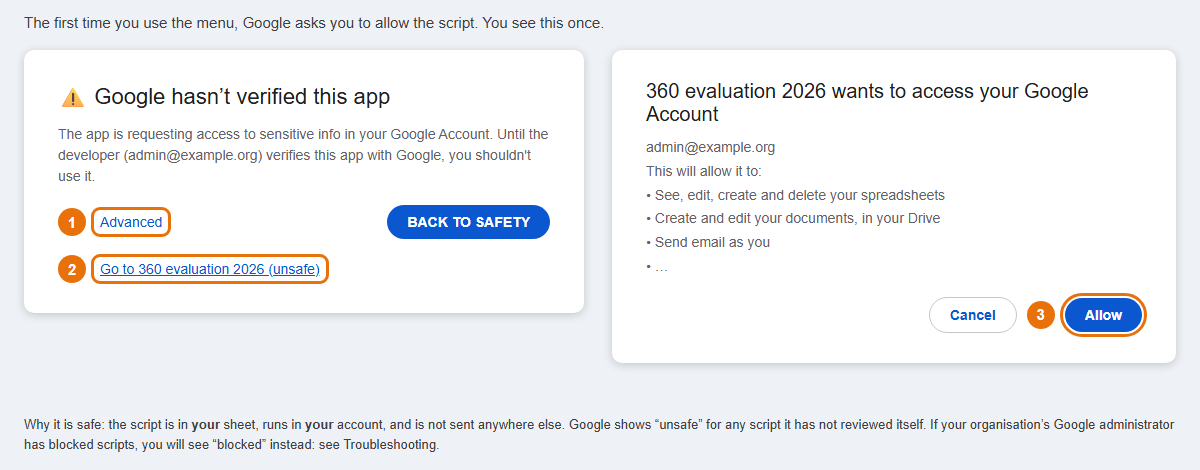
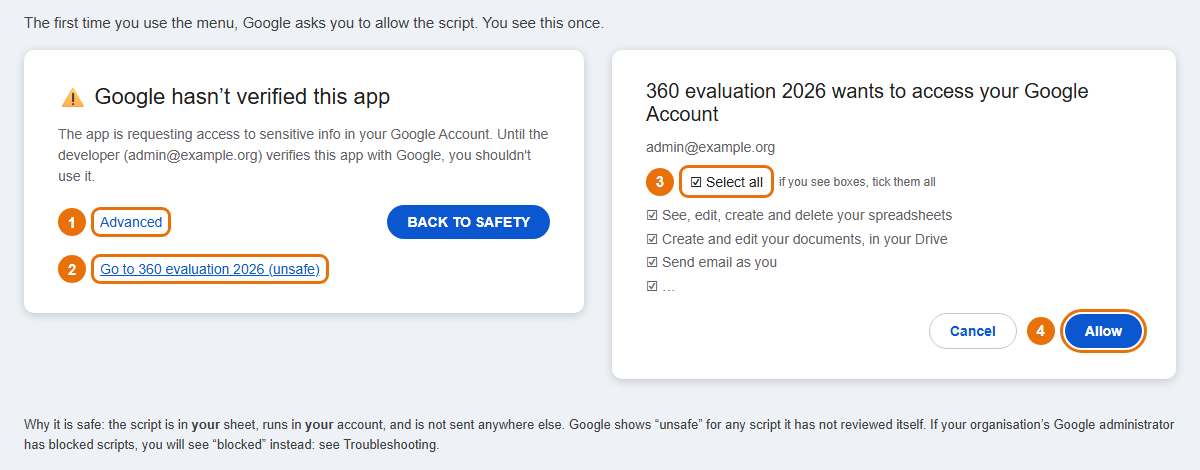
docs: first-time path and tidy-up after two fresh reviews
- Setup guide: agree who the admin is, which folder to use after unzipping,
  Git up front on Windows, "Select all" on Google's permission screen,
  tell the team first, and how to know the invitations went out.
- Publish picture and steps: the later "new version" step moved to the
  admin guide; step 4 shown.
- Automatic upload prints the new sheet's link.
- Security review kept as a dated record; no maintainer to-do list.
- Fixed statements that contradicted the code (review decisions, employee
  copy); consistent admin-check exceptions; picture scripts documented and
  sharing one Chrome finder.
- Arabic README: one note on AI-drafted wording; product document moved to
  the developer links.

New Arabic copy needs native review.

Changed region(s): [[0.5242, 0.3277, 0.8017, 0.566], [0.4933, 0.6255, 0.9867, 0.8043], [0.5242, 0.5957, 0.555, 0.6255]]

diff --git a/tools/guide-images.js b/tools/guide-images.js
@@ -88,8 +88,10 @@ ${card(`<div style="font-size:22px;margin-bottom:14px">⚠ Google hasn’t ve
 <span style="flex:1"></span><span class="btn pri">BACK TO SAFETY</span></div>
 <div style="margin-top:16px;display:flex;align-items:center;gap:10px"><span class="badge">2</span><span class="hl" style="color:#0b57d0;font-size:14px;text-decoration:underline;padding:2px 4px">Go to 360 evaluation 2026 (unsafe)</span></div>`, 'left:24px;top:50px;width:560px')}
 ${card(`<div style="font-size:20px;margin-bottom:10px">360 evaluation 2026 wants to access your Google Account</div>
-<div class="note" style="font-size:14px;line-height:1.7">admin@example.org<br>This will allow it to:<br>• See, edit, create and delete your spreadsheets<br>• Create and edit your documents, in your Drive<br>• Send email as you<br>• …</div>
-<div style="margin-top:18px;display:flex;align-items:center;gap:10px;justify-content:flex-end"><span class="btn sec">Cancel</span><span class="badge">3</span><span class="btn pri hl">Allow</span></div>`, 'left:612px;top:50px;width:564px')}
+<div class="note" style="font-size:14px;line-height:1.7">admin@example.org</div>
+<div style="display:flex;align-items:center;gap:10px;margin:8px 0"><span class="badge">3</span><span class="hl" style="font-size:14px;padding:2px 6px">☑ Select all</span><span class="note">if you see boxes, tick them all</span></div>
+<div class="note" style="font-size:14px;line-height:1.7">☑ See, edit, create and delete your spreadsheets<br>☑ Create and edit your documents, in your Drive<br>☑ Send email as you<br>☑ …</div>
+<div style="margin-top:14px;display:flex;align-items:center;gap:10px;justify-content:flex-end"><span class="btn sec">Cancel</span><span class="badge">4</span><span class="btn pri hl">Allow</span></div>`, 'left:612px;top:50px;width:564px')}
 <div style="position:absolute;left:24px;right:24px;bottom:16px;font-size:13px;color:#3c4043;line-height:1.5">
 Why it is safe: the script is in <b>your</b> sheet, runs in <b>your</b> account, and is not sent anywhere else. Google shows “unsafe” for any script it has not reviewed itself.
 If your organisation’s Google administrator has blocked scripts, you will see “blocked” instead: see Troubleshooting.</div>
@@ -108,15 +110,13 @@ ${card(`<div style="font-size:18px;margin-bottom:14px">New deployment</div>
 <div style="display:flex;align-items:center;gap:10px"><span class="badge">3</span><div class="hl" style="flex:1;border:1px solid #c4c7c5;padding:8px;font-size:14px">Anyone within Example Foundation</div></div>
 <div style="margin-top:18px;text-align:right"><span class="btn sec">Cancel</span> <span class="btn pri hl">Deploy</span></div>`, 'left:390px;top:24px;width:400px;height:300px')}
 ${card(`<div style="font-size:18px;margin-bottom:14px">New deployment</div>
+<div style="display:flex;align-items:center;gap:10px;font-size:13px;margin-bottom:10px"><span class="badge">4</span>If Google asks again: your account → Allow</div>
 <div style="font-size:14px;color:#188038;margin-bottom:12px">✓ Deployment successfully created.</div>
 <div style="font-size:13px;color:#5f6368">Web app — URL</div>
 <div style="display:flex;align-items:center;gap:10px;margin-top:4px"><div style="flex:1;border:1px solid #c4c7c5;padding:8px;font-size:12px;overflow:hidden;white-space:nowrap">https://script.google.com/macros/s/…/exec</div></div>
 <div style="display:flex;align-items:center;gap:10px;margin-top:10px"><span class="badge">5</span><span class="btn sec hl">Copy</span></div>
 <div class="note" style="margin-top:14px;line-height:1.5">Paste it in the box in the sheet’s window and press «Save the address».</div>`, 'left:816px;top:24px;width:360px')}
-${card(`<div style="font-size:16px;margin-bottom:10px"><span class="badge">6</span> Later, after any change to the code: <b>Deploy → Manage deployments</b></div>
-<div style="display:flex;align-items:center;gap:12px;font-size:14px">✏ <span class="hl" style="padding:0 4px">pencil</span> → Version: <div class="hl" style="border:1px solid #c4c7c5;padding:6px 10px">New version</div> → <span class="btn pri">Deploy</span>
-<span class="note" style="font-size:13px">Check that the number goes up. If it still shows the old number, the page did not change. The address stays the same.</span></div>`, 'left:24px;top:350px;right:24px')}
-</body></html>`, 1200, 510);
+</body></html>`, 1200, 350);
 shotDeploy();
 
 try { fs.rmSync(tmp, { recursive: true, force: true }); } catch (e) {}

diff --git a/tools/push.js b/tools/push.js
@@ -21,7 +21,7 @@ function clasp(args) {
   const r = process.platform === 'win32'
     ? spawnSync('npx ' + all.map(quote).join(' '), { cwd: build, stdio: 'inherit', shell: true })
     : spawnSync('npx', all, { cwd: build, stdio: 'inherit' });
-  if (r.status !== 0) { console.error('\nclasp stopped (exit ' + r.status + '). See docs/en/troubleshooting.md → "clasp".'); process.exit(r.status || 1); }
+  if (r.status !== 0) { console.error('\nclasp stopped (exit ' + r.status + '). See docs/en/troubleshooting.md → "Automatic upload with Claude Code".'); process.exit(r.status || 1); }
 }
 // The sheet's name: the organisation name, keeping only letters, numbers, spaces and simple punctuation
 const title = String(org.settings.ORG_NAME || 'Our organisation').replace(/[^\p{L}\p{N} .,'()_-]/gu, ' ').replace(/'/g, '').trim() + ' - 360 evaluation';
@@ -32,7 +32,9 @@ if (cmd === 'create') {
   ['Code.js', 'code.js'].forEach(f => { const p = path.join(build, f); if (fs.existsSync(p)) fs.unlinkSync(p); });
   fs.copyFileSync(path.join(ROOT, 'appsscript.json'), path.join(build, 'appsscript.json'));
   clasp(['push', '--force']);
-  console.log('\nDone. A new Google Sheet "' + title + '" is in your Drive with the script inside. Next: open it, reload, and choose «360 → Start setup».');
+  let link = '';
+  try { const id = JSON.parse(fs.readFileSync(path.join(build, '.clasp.json'), 'utf8')).parentId; if (id) link = 'https://docs.google.com/spreadsheets/d/' + (Array.isArray(id) ? id[0] : id) + '/edit'; } catch (e) {}
+  console.log('\nDone. A new Google Sheet "' + title + '" is in your Drive with the script inside.' + (link ? '\nOpen it: ' + link : '') + '\nNext: reload it, and choose «360 → Start setup».');
 } else if (cmd === 'update') {
   clasp(['push', '--force']);
   console.log('\nCode updated. If the personal page is already published, publish a new version: see docs/en/admin-guide.md → "After changing the code".');

diff --git a/tools/banner.js b/tools/banner.js
@@ -3,7 +3,7 @@
 'use strict';
 const fs = require('fs'), path = require('path'), os = require('os'), { execFileSync } = require('child_process'), { pathToFileURL } = require('url');
 const { ROOT } = require('./lib');
-const chrome = [process.env.CHROME, 'C:/Program Files/Google/Chrome/Application/chrome.exe', '/Applications/Google Chrome.app/Contents/MacOS/Google Chrome', '/usr/bin/google-chrome'].filter(Boolean).find(p => fs.existsSync(p));
+const chrome = require('./chrome').chromePath();
 if (!chrome) { console.error('Chrome not found (set CHROME=/path/to/chrome).'); process.exit(1); }
 const out = path.join(ROOT, 'docs', 'images', 'banner.png');
 const profile = fs.mkdtempSync(path.join(os.tmpdir(), 'np360b-'));

diff --git a/tools/screenshots.js b/tools/screenshots.js
@@ -4,7 +4,7 @@
 'use strict';
 const fs = require('fs'), path = require('path'), os = require('os'), vm = require('vm'), { execFileSync } = require('child_process');
 const { ROOT, load } = require('./lib');
-const chrome = [process.env.CHROME, 'C:/Program Files/Google/Chrome/Application/chrome.exe', '/Applications/Google Chrome.app/Contents/MacOS/Google Chrome', '/usr/bin/google-chrome'].filter(Boolean).find(p => fs.existsSync(p));
+const chrome = require('./chrome').chromePath();
 if (!chrome) { console.error('Chrome not found (set CHROME=/path/to/chrome).'); process.exit(1); }
 const tmp = fs.mkdtempSync(path.join(os.tmpdir(), 'np360s-'));
 const fwd = p => p.replace(/\\/g, '/');

diff --git a/tools/leak-scan.js b/tools/leak-scan.js
@@ -1,5 +1,5 @@
 #!/usr/bin/env node
-// Private leak check — run it before every push if you adapted this project from your own organisation's system.
+// Private word check — run it before you publish changes, to be sure no private word slipped into the project.
 // It looks for words from YOUR private list (people's names, emails, your domain, ids, phrases, logo fingerprints)
 // in every file of the project AND in its whole git history. Keep the list OUTSIDE the project folder.
 //   node tools/leak-scan.js --denylist ../my-private-denylist.txt

diff --git a/tools/banner.html b/tools/banner.html
@@ -1,5 +1,5 @@
 <!DOCTYPE html>
-<!-- The project banner (docs/images/banner.png and social-preview.png). Rendered by tools/banner.js with headless Chrome. -->
+<!-- The project banner (docs/images/banner.png, also GitHub's social preview). Rendered by tools/banner.js with headless Chrome. -->
 <html lang="en"><head><meta charset="utf-8">
 <style>
   @import url('https://fonts.googleapis.com/css2?family=Inter:wght@500;700;800&family=Tajawal:wght@500;700&display=swap');

diff --git a/docs/ar/setup-guide.md b/docs/ar/setup-guide.md
@@ -22,20 +22,22 @@
     [Google for Nonprofits](https://www.google.com/nonprofits/). قد تستغرق الموافقة من أيام إلى أسابيع، فابدؤوا مبكرًا.
   - يستطيع الموظفون الذين لا يملكون بريد عمل أن يشاركوا مع ذلك، على الورق.
 - **مسؤول تقييم واحد.** قرّروا من يكون مسؤول التقييم: الشخص الوحيد الذي سيرى النتائج. استخدموا حساب عمله في كل ما يلي.
+  وإذا كنتم تُعدّونه نيابةً عن المدير، فاتفقوا الآن على أيّكما يكون المسؤول؛ فتغييره لاحقًا صعب.
 - **فريقكم.** جهّزوا قائمة الفريق: الاسم، وبريد العمل، والإدارة، والمسمى الوظيفي، والرئيس المباشر.
 - **من يعمل مع من.** الجزء البطيء ليس الحاسوب، بل سؤال الرؤساء عمّن يعمل مع من عن قرب خارج فريقه. اسألوهم قبل البدء ببضعة أيام.
 
 ---
 
 ## أ. مع Claude Code
-1. **ثبّتوا برنامجين** (مرة واحدة):
+1. **ثبّتوا هذه البرامج** (مرة واحدة)، كلًّا بالخيارات الافتراضية:
    - [تطبيق Claude لسطح المكتب](https://claude.com/download)؛ وسجّلوا الدخول؛
-   - [Node.js](https://nodejs.org): اضغطوا الزر المكتوب عليه **LTS** وثبّتوه بالخيارات الافتراضية. يستخدمه Claude لفحص نسختكم وبنائها.
+   - [Node.js](https://nodejs.org): اضغطوا الزر المكتوب عليه **LTS**. يستخدمه Claude لفحص نسختكم وبنائها؛
+   - على Windows فقط: [Git for Windows](https://git-scm.com/download/win)، ويحتاج إليه Claude ليعمل على حاسوبكم.
 2. **نزّلوا هذا المشروع.** في صفحة المشروع على GitHub اضغطوا الزر الأخضر **Code** ثم **Download ZIP** (تنزيل ملف مضغوط). في مجلد
-   التنزيلات اضغطوا على الملف بزر الفأرة الأيمن ثم **Extract All** (استخراج الكل)، وانقلوا المجلد إلى المستندات.
+   التنزيلات اضغطوا على الملف بزر الفأرة الأيمن ثم **Extract All** (استخراج الكل)، وانقلوا المجلد إلى المستندات. كثيرًا ما يُنشئ
+   Windows مجلدًا داخل مجلد بالاسم نفسه: اختاروا المجلد الذي يوجد فيه الملف `README.md` مباشرةً.
 3. **ابدؤوا.** في تطبيق Claude افتحوا **Code**، واختاروا ذلك المجلد، واكتبوا **`/setup-360`** في مربع الرسالة، ثم اضغطوا Enter.
-   - يستأذنكم Claude قبل أن يشغّل كل خطوة على حاسوبكم. اقرؤوا سببه في سطر واحد، ثم اضغطوا **السماح** (`Allow`).
-   - على Windows، إذا قال Claude إنه يحتاج إلى Git، فثبّتوا [Git for Windows](https://git-scm.com/download/win) بالخيارات الافتراضية ثم ابدؤوا من جديد.
+   يستأذنكم Claude قبل أن يشغّل كل خطوة على حاسوبكم. اقرؤوا سببه في سطر واحد، ثم اضغطوا **السماح** (`Allow`).
 4. **أجيبوا عن أسئلة Claude**، سؤالًا سؤالًا:
    - اللغة؛
    - اسم المؤسسة؛
@@ -63,8 +65,8 @@
 1. افتحوا [sheets.new](https://sheets.new) وأنتم مسجّلو الدخول بحساب عمل مسؤول التقييم. سمّوا الملف، مثلًا `تقييم 360 لعام 2026`.
 2. من قائمة الملف: **الإضافات** ثم **Apps Script**. وفي واجهة Google الإنجليزية: `Extensions → Apps Script`.
    تُفتح علامة تبويب جديدة فيها ملف اسمه `Code.gs`.
-3. افتحوا [`dist/Code.gs`](../../dist/Code.gs) على GitHub واضغطوا زر **نسخ الملف الخام**، وهو المربعان الصغيران في أعلى الكود
-   من جهة اليمين. وفي واجهة GitHub الإنجليزية: `Copy raw file`.
+3. افتحوا [`dist/Code.gs`](../../dist/Code.gs) على GitHub واضغطوا زر `Copy raw file` (نسخ الملف الخام)، وهو المربعان الصغيران في
+   أعلى الكود من جهة اليمين.
 4. عودوا إلى علامة تبويب Apps Script واضغطوا داخل الكود. اضغطوا **Ctrl+A** ثم **Ctrl+V** (على جهاز Mac: **Cmd+A** ثم
    **Cmd+V**) لتستبدلوا كل ما فيه بما نسختموه.
 5. اضغطوا **حفظ** (أيقونة القرص). ثم أغلقوا علامة تبويب Apps Script.
@@ -75,7 +77,8 @@
    - اختاروا حسابكم؛
    - إذا ظهرت رسالة تفيد بأن Google لم تتحقق من هذا التطبيق، فاضغطوا **إعدادات متقدمة** ثم **الانتقال إلى المشروع**. وفي واجهة Google
      الإنجليزية: `Google hasn't verified this app`، ثم `Advanced`، ثم `Go to (your project) (unsafe)`؛
-   - اضغطوا **السماح** (`Allow`).
+   - إذا ظهرت خانات للتعليم، فاختاروا **تحديد الكل** (`Select all`)؛ فالأداة تحتاج إليها كلها؛
+   - اضغطوا **السماح** (`Allow`) أو **متابعة** (`Continue`).
 
    ![شاشات إذن Google: Advanced ثم Go to (unsafe) ثم Allow](../images/google-permission.png)
 
@@ -94,10 +97,6 @@
 
    ![قائمة «تقييم 360» وتبويب «ابدأ هنا»](../images/admin-menu-ar.png)
 
-عندما تدعون الفريق، هذه أول صفحة يراها كل شخص:
-
-![صفحة الترحيب التي يراها كل شخص أولًا](../images/page-welcome-ar.png)
-
 ### 3. املؤوا بيانات فريقكم
 - **تبويب «الفريق»:** صف لكل شخص.
   - **«الرئيس المباشر (بريد أو اسم)»:** بريد رئيسه المباشر أو اسمه كما هو مكتوب تمامًا. اتركوه فارغًا لرأس المؤسسة فقط.
@@ -115,22 +114,21 @@
 
 ### 5. انشروا الصفحة الشخصية
 «الصفحة الشخصية» هي ما يفتحه موظفوكم ليملؤوا تقييمهم؛ وتسميها Google **تطبيق ويب** (`Web app`).
-تفعلون هذا مرة واحدة، ويستغرق نحو 3 دقائق. «تقييم 360» ← «4) نشر الصفحة الشخصية» تفتح نافذة فيها هذه الخطوات الست، مرقّمة كما في الصورة:
+تفعلون هذا مرة واحدة، ويستغرق نحو 3 دقائق. «تقييم 360» ← «4) نشر الصفحة الشخصية» تفتح نافذة فيها هذه الخطوات، مرقّمة كما في الصورة:
 
 ![نشر الصفحة الشخصية خطوة بخطوة](../images/publish-page.png)
 
 *الصورة رسم مبسّط لواجهة Google الإنجليزية.*
 
-1. من قائمة الملف: **الإضافات** ثم **Apps Script**. ثم في أعلى اليمين: **نشر** ثم **نشر جديد**.
+1. من قائمة الملف: **الإضافات** ثم **Apps Script**. ثم في أعلى الصفحة: **نشر** ثم **نشر جديد**.
    وفي واجهة Google الإنجليزية: `Extensions → Apps Script`، ثم `Deploy → New deployment`.
 2. اضغطوا الترس بجوار **اختيار النوع** ثم اختاروا **تطبيق ويب**. وفي واجهة Google الإنجليزية: `Select type`، ثم `Web app`.
 3. اختاروا **التنفيذ باسم**: **أنا**، و**من يمكنه الوصول**: **أي شخص داخل مؤسستكم**. ثم اضغطوا **نشر**.
    وفي واجهة Google الإنجليزية: `Execute as: Me`، و`Who has access: Anyone within (your organisation)`، ثم `Deploy`.
 4. قد تطلب Google الإذن مرة أخرى: اختاروا حسابكم ثم **السماح** (`Allow`).
 5. انسخوا عنوان **تطبيق الويب** (ينتهي بـ `/exec`)، والصقوه في المربع الموجود في النافذة، ثم اضغطوا «احفظ العنوان».
-6. لاحقًا، بعد أي تعديل على الكود: **نشر** ثم **إدارة عمليات النشر** ثم القلم ثم **الإصدار**: **إصدار جديد** ثم **نشر**.
-   وفي واجهة Google الإنجليزية: `Deploy → Manage deployments`، ثم الإصدار `Version: New version`، ثم `Deploy`.
-   تأكدوا أنه يعرض رقم إصدار جديدًا؛ أما العنوان فلا يتغير.
+
+أما الخطوة 6 في النافذة فهي لوقت لاحق، وفقط إذا تغيّر الكود: راجعوا [بعد تعديل الكود](admin-guide.md).
 
 ### 6. جرّبوا ثم أرسلوا معاينة
 1. «تقييم 360» ← «جرّب: اختبار بأشخاص وهميين». تصفّحوا التبويبات ولوحة المؤسسة ومجلد التقارير.
@@ -139,9 +137,18 @@
 
 ![الصفحة الشخصية](../images/page-list-ar.png)
 
-### 7. ادعوا الفريق
-«تقييم 360» ← «6) إرسال الدعوات للفريق». تخبركم بعدد من سيُدعون وتطلب منكم التأكيد.
-وإذا كان أحد بلا بريد إلكتروني: «إنشاء نماذج ورقية لمن لا يملك بريدًا»، ثم اطبعوها. وعند عودتها يعرض «إدخال إجابات النماذج الورقية» رابطًا لكل شخص.
+### 7. أخبروا الفريق، ثم ادعوهم
+1. **أخبروهم أولًا**، في محادثة الفريق أو في اجتماع، قبلها بيوم أو يومين: ما التقييم، وأنه سري، وأن يفتحوا الدعوة بحساب بريد
+   **العمل**. رسالة جاهزة: [الإعلان المقترح](ethics-and-privacy.md).
+2. «تقييم 360» ← «6) إرسال الدعوات للفريق». تخبركم بعدد من سيُدعون وتطلب منكم التأكيد.
+3. **كيف تعرفون أنها نجحت:** تظهر رسالة «تم إرسال {n} دعوة»، وتجدون الدعوات في مجلد **المرسل** (`Sent`) في Gmail، ويمتلئ تبويب
+   «المتابعة» بعد «تحديث النتائج» كلما بدأ الناس.
+4. وإذا كان أحد بلا بريد إلكتروني: «إنشاء نماذج ورقية لمن لا يملك بريدًا»، ثم اطبعوها. وعند عودتها يعرض «إدخال إجابات النماذج
+   الورقية» رابطًا لكل شخص.
+
+هذه أول صفحة يراها كل شخص:
+
+![صفحة الترحيب التي يراها كل شخص أولًا](../images/page-welcome-ar.png)
 
 التالي: [إدارة التقييم](admin-guide.md).
 

diff --git a/docs/en/setup-guide.md b/docs/en/setup-guide.md
@@ -20,7 +20,8 @@ page for every staff member.
     [Google for Nonprofits](https://www.google.com/nonprofits/). Approval can take days to weeks, so start early.
   - Staff without a work email can still take part, on paper.
 - **One admin.** Decide who the admin is: the only person who will see results. Use that person's work account for
-  everything below.
+  everything below. If you are setting it up for your director, agree now which of you it is: it is hard to switch
+  later.
 - **Your team.** Have your team list ready: name, work email, department, job title, and direct manager.
 - **Who works with whom.** The slow part is not the computer: it is asking managers who works closely with whom
   outside their own team. Ask them a few days before you start.
@@ -28,15 +29,15 @@ page for every staff member.
 ---
 
 ## A. With Claude Code
-1. **Install two programs** (once):
+1. **Install these programs** (once), each with the default choices:
    - the [Claude desktop app](https://claude.com/download); sign in;
-   - [Node.js](https://nodejs.org): press the button marked "LTS" and install it with the default choices. Claude uses it to check and build your copy.
+   - [Node.js](https://nodejs.org): press the button marked "LTS". Claude uses it to check and build your copy;
+   - on Windows only: [Git for Windows](https://git-scm.com/download/win), which Claude needs to work on your computer.
 2. **Download this project.** On the project's GitHub page press the green **Code** button → **Download ZIP**. In your
-   Downloads folder right-click the file → **Extract All**, and move the folder to Documents.
+   Downloads folder right-click the file → **Extract All**, and move the folder to Documents. Windows often makes a
+   folder inside a folder with the same name: use the one that has `README.md` directly inside it.
 3. **Start.** In the Claude app open **Code**, choose that folder, type **`/setup-360`** in the message box and press Enter.
-   - Claude asks before it runs each step on your computer. Read its one-line reason and press **Allow**.
-   - On Windows, if Claude says it needs Git, install [Git for Windows](https://git-scm.com/download/win) with the
-     default choices and start again.
+   Claude asks before it runs each step on your computer. Read its one-line reason and press **Allow**.
 4. **Answer Claude's questions**, one at a time:
    - language;
    - organisation name;
@@ -75,7 +76,8 @@ organisation, use route B.
 1. Choose **360 → Start setup · ابدأ الإعداد**. Google asks for permission the first time, once:
    - choose your account;
    - if it says "Google hasn't verified this app", press **Advanced**, then **Go to (your project) (unsafe)**;
-   - press **Allow**.
+   - if you see boxes to tick, tick **Select all**: the tool needs every one;
+   - press **Allow** (or **Continue**).
 
    ![Google's permission screens: Advanced, Go to (unsafe), Allow](../images/google-permission.png)
 
@@ -92,10 +94,6 @@ organisation, use route B.
 3. **Reload the sheet.** The menu is now called **360 evaluation**, and a **Start here** tab lists every step.
 
    ![The 360 evaluation menu and the Start here tab](../images/admin-menu-en.png)
-
-When you invite the team, this is the first page each person sees:
-
-![The welcome page every person sees first](../images/page-welcome-en.png)
 
 ### 3. Fill in your team
 - **Team tab:** one row per person.
@@ -117,17 +115,17 @@ When you invite the team, this is the first page each person sees:
 ### 5. Publish the personal page
 The "personal page" is what your staff open to fill in their evaluation; Google calls it a **web app**.
 You do this once; it takes about 3 minutes. **360 evaluation → 4) Publish the personal page** opens a window with
-these six steps, numbered like the picture:
+these steps, numbered like the picture:
 
 ![Publishing the personal page, step by step](../images/publish-page.png)
 
-1. In the sheet's menu: **Extensions → Apps Script**. Then, at the top right, **Deploy → New deployment**.
+1. In the sheet's menu: **Extensions → Apps Script**. Then, at the top of the page, **Deploy → New deployment**.
 2. Click the gear next to "Select type" → **Web app**.
 3. **Execute as: Me.** **Who has access: Anyone within (your organisation).** Then **Deploy**.
 4. Google may ask for permission again: choose your account → **Allow**.
 5. Copy the **Web app** address (it ends in `/exec`), paste it in the box in the window, and press **Save the address**.
-6. Later, after any change to the code: **Deploy → Manage deployments** → pencil → Version: **New version** → **Deploy**.
-   Check that it shows a new version number; the address stays the same.
+
+The window's step 6 is for later, only if the code changes: see [After changing the code](admin-guide.md#after-changing-the-code-or-the-questions).
 
 ### 6. Try it, then preview
 1. **360 evaluation → Try it: run a test with made-up people.** Look at the tabs, the dashboard and the reports folder.
@@ -136,9 +134,18 @@ these six steps, numbered like the picture:
 
 ![The personal page](../images/page-list-en.png)
 
-### 7. Invite the team
-**360 evaluation → 6) Send the invitations to the team.** It tells you how many people will be invited and asks you to confirm.
-If anyone has no email: **Make paper forms for people without email**, and print them. When they come back,
-**Enter answers from paper forms** shows one link per person.
+### 7. Tell the team, then invite them
+1. **Tell them first**, in your team chat or a meeting, a day or two before: what it is, that it is confidential, and to
+   open the invitation with their **work** email account. A ready message: [suggested announcement](ethics-and-privacy.md#a-suggested-announcement-adapt-it).
+2. **360 evaluation → 6) Send the invitations to the team.** It tells you how many people will be invited and asks you to
+   confirm.
+3. **How you know it worked:** a message says how many invitations were sent, they are in your Gmail **Sent** folder, and
+   **Update results** fills the **Progress** tab as people start.
+4. If anyone has no email: **Make paper forms for people without email**, and print them. When they come back,
+   **Enter answers from paper forms** shows one link per person.
+
+This is the first page each person sees:
+
+![The welcome page every person sees first](../images/page-welcome-en.png)
 
 Next: [Running the evaluation](admin-guide.md).

diff --git a/CLAUDE.md b/CLAUDE.md
@@ -18,16 +18,16 @@ The person you are talking to is usually **not technical**: an executive directo
 | `/fix-360` | Something is wrong: finds the cause and fixes it. |
 
 ## Safety rules (never break these, even if asked casually)
-0. **Be honest about what you see.** Before they share their team list, tell them in one sentence that what they type
+1. **Be honest about what you see.** Before they share their team list, tell them in one sentence that what they type
    or paste here is sent to Anthropic so you can help, that you never need ratings or comments, and that the by-hand
    route keeps everything in their Google account. Never ask for or accept ratings, comments or answers.
-1. **Their data stays theirs.** Everything about their people lives in `org/` — it is in `.gitignore` and must never be committed, pushed, pasted into an issue, or sent anywhere except into their own Google account. Never copy `org/` content into `src/`, `docs/`, `test/` or any tracked file.
-2. **Nothing is sent to their staff without their clear "yes".** Invitations and reminders are sent only by them pressing the menu button, or by you after they say yes to that specific send. A preview to themselves first, always.
-3. **Results stay locked.** Never suggest sharing a report automatically. The admin decides who sees what, and shares each employee copy in a conversation.
-4. **Confidentiality.** Never show one person's answers to another person. The minimum group size (default 3) protects raters; do not lower it below 3 without explaining the risk once.
-5. **No secrets in files.** They sign in to Google themselves in the browser (`clasp login`). Never ask for, store or print passwords or tokens.
-6. **Arabic must be truly right-to-left.** When you produce Arabic documents or pages, check that they read from the right. Mark any new Arabic or English wording you write as "needs a native speaker's review".
-7. **Fair evaluation.** Every pairing needs a real reason (they work together). Never pair people at random, and never add pairs "to make numbers look good" without telling them.
+2. **Their data stays theirs.** Everything about their people lives in `org/` — it is in `.gitignore` and must never be committed, pushed, pasted into an issue, or sent anywhere except into their own Google account. Never copy `org/` content into `src/`, `docs/`, `test/` or any tracked file.
+3. **Nothing is sent to their staff without their clear "yes".** Invitations and reminders are sent only by them pressing the menu button, or by you after they say yes to that specific send. A preview to themselves first, always.
+4. **Results stay locked.** Never suggest sharing a report automatically. The admin decides who sees what, and shares each employee copy in a conversation.
+5. **Confidentiality.** Never show one person's answers to another person. The minimum group size (default 3) protects raters; do not lower it below 3 without explaining the risk once.
+6. **No secrets in files.** They sign in to Google themselves in the browser (`clasp login`). Never ask for, store or print passwords or tokens.
+7. **Arabic must be truly right-to-left.** When you produce Arabic documents or pages, check that they read from the right. Mark any new Arabic or English wording you write as "needs a native speaker's review".
+8. **Fair evaluation.** Every pairing needs a real reason (they work together). Never pair people at random, and never add pairs "to make numbers look good" without telling them.
 
 ## How the project is built (for you)
 - `src/*.gs` — the Google Apps Script source. `tools/build.js` joins it into one file:

diff --git a/docs/SECURITY-AUDIT.md b/docs/SECURITY-AUDIT.md
@@ -1,13 +1,11 @@
-# nonprofit-360 — Security and production-readiness audit (2026-09-29)
+# nonprofit-360 — Security review of version 1.0.0 (2026-09-29)
 
-## Verdict
-**GO for public release**, once the repository settings listed at the end are switched on after publishing.
+A record of the review done before the first public release. Later changes are listed in the [changelog](../CHANGELOG.md).
 
 **How it was checked:**
 - Five independent reviews: access control and confidentiality; injection; correctness and robustness; repository and
   CI hardening against OpenSSF Scorecard and GitHub community standards; beginner documentation.
 - A clean install in a real Google Workspace account.
-- The private leak scan over every file and the whole git history.
 
 **What was found and fixed:**
 - One high-severity security issue: spreadsheet formula injection.
@@ -115,7 +113,6 @@ answers, or see who rated them.
 - Duplicate-name warning added; dedupe on a timestamp tie now keeps the latest.
 - Per-answer text is capped so one answer fits in a Google cell.
 - The test run now asks first when real answers exist.
-- The Arabic tab name is now «نتائج_الأفراد».
 - Community files added: PR template, issue template config, `.gitignore` for personal editor and assistant files, Node ≥ 22.
 
 ### Accepted by design (documented)
@@ -131,7 +128,6 @@ answers, or see who rated them.
 | Whole flow against fake Google services (both languages), including the new injection, leak, resume, copy and new-round checks | 193 / 193 |
 | Word lists: every key in English and Arabic, no hard-coded words | 775 keys each, 0 problems |
 | Public leak rules (real emails, Google ids, secrets, big files) | clean |
-| Private leak scan over files and full history (the origin organisation's names, emails, ids and logo) | 0 matches |
 | gitleaks, working tree and history | no leaks |
 | Real browser, every example person in both languages | 988 / 988 checks, 232 screens |
 | Stop and continue (same device and another device) | 12 / 12 |
@@ -141,14 +137,9 @@ answers, or see who rated them.
 - The automatic clasp upload path. It needs the organisation's own Google sign-in; the copy-and-paste path was verified.
 - The date direction fix inside the Arabic page (verified locally).
 
-## Fix backlog
-All items above are done. Settings to switch on right after publishing:
-- [ ] Repository description and topics
-- [ ] Private vulnerability reporting (Security → Advisories). `SECURITY.md` and `CODE_OF_CONDUCT.md` rely on it.
-- [ ] Secret scanning and push protection
-- [ ] Dependabot alerts
-- [ ] A ruleset on `main`: block force-pushes and deletion, and require the `tests` and `code scanning` checks
-- [ ] Labels `bug`, `enhancement`, `wording`
+## Repository settings
+Private vulnerability reporting, secret scanning with push protection, Dependabot alerts and security updates are on,
+and a ruleset on `main` blocks force-pushes and deletion.
 
 ## Out of scope / not re-audited
 - Google's own services (Apps Script runtime, MailApp, Docs rendering).

diff --git a/README.md b/README.md
@@ -6,7 +6,7 @@
 
 **A free, open-source 360-degree performance evaluation for nonprofits — in English and Arabic, running in your own Google account.**
 
-[العربية](README.ar.md) · [Setup guide](docs/en/setup-guide.md) · [Admin guide](docs/en/admin-guide.md) · [Ethics and privacy](docs/en/ethics-and-privacy.md) · [FAQ](docs/en/faq.md) · [Product document](docs/PRD.md)
+[العربية](README.ar.md) · [Setup guide](docs/en/setup-guide.md) · [Admin guide](docs/en/admin-guide.md) · [Ethics and privacy](docs/en/ethics-and-privacy.md) · [FAQ](docs/en/faq.md)
 
 | At a glance | |
 |---|---|
@@ -60,7 +60,8 @@ no IT staff and no budget for HR software.
 1. Install the [Claude desktop app](https://claude.com/download) and sign in. Also install [Node.js](https://nodejs.org)
    (the button marked "LTS"); Claude uses it to check and build your copy.
 2. Download this project: on this page press the green **Code** button → **Download ZIP**. In your Downloads folder,
-   right-click the file → **Extract All**, and move the folder to Documents.
+   right-click the file → **Extract All**, and move the folder to Documents (use the folder that has `README.md`
+   directly inside it).
 3. In the Claude app open **Code**, choose that folder, type **`/setup-360`** in the message box and press Enter.
    Claude asks before each step it runs on your computer: read its one-line reason and press **Allow**.
 4. Answer its questions in plain words: your team, who works with whom, your values and your deadline. Claude prepares
@@ -88,7 +89,7 @@ Personal Gmail accounts are not supported in this version.
 - The source is in [`src/`](src/) (Google Apps Script). `npm run build` joins it into [`dist/Code.gs`](dist/Code.gs).
 - Tests: `npm test`. They check the analysis, both languages, the whole flow against fake Google services, the leak
   rules, stop-and-continue, and a real-browser run of every example person in both languages.
-- See [Architecture](docs/ARCHITECTURE.md), [Contributing](CONTRIBUTING.md), [Security](SECURITY.md) and the [security and readiness audit](docs/SECURITY-AUDIT.md).
+- See the [product document](docs/PRD.md), [Architecture](docs/ARCHITECTURE.md), [Contributing](CONTRIBUTING.md), [Security](SECURITY.md) and the [security review](docs/SECURITY-AUDIT.md).
 
 ## Need help?
 Type `/fix-360` in Claude Code, read [Troubleshooting](docs/en/troubleshooting.md), or open an issue on GitHub
